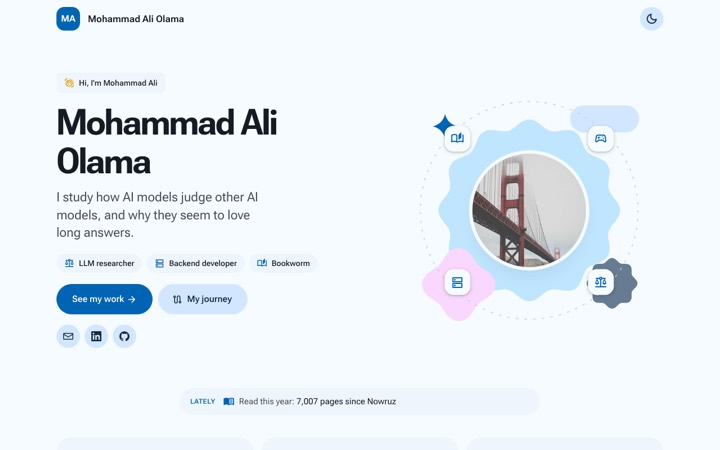
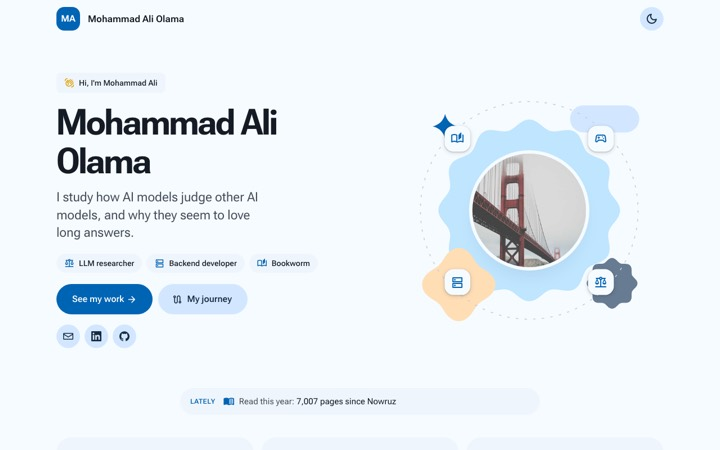
Blue + amber palette: accent hue opposite the main blue; no pink/purple tones

Changed region(s): [[0.5806, 0.5289, 0.7028, 0.7156]]

diff --git a/assets/css/base.css b/assets/css/base.css
@@ -29,9 +29,9 @@
   --secondary: oklch(.5 calc(var(--c) * .4) var(--h));
   --secondary-container: oklch(.92 calc(var(--c) * .3) var(--h));
   --on-secondary-container: oklch(.28 calc(var(--c) * .35) var(--h));
-  --tertiary: oklch(.52 calc(var(--c) * .9) calc(var(--h) + 70));
-  --tertiary-container: oklch(.92 calc(var(--c) * .5) calc(var(--h) + 70));
-  --on-tertiary-container: oklch(.3 calc(var(--c) * .7) calc(var(--h) + 70));
+  --tertiary: oklch(.52 calc(var(--c) * .9) calc(var(--h) + var(--t-off, 70)));
+  --tertiary-container: oklch(.92 calc(var(--c) * .5) calc(var(--h) + var(--t-off, 70)));
+  --on-tertiary-container: oklch(.3 calc(var(--c) * .7) calc(var(--h) + var(--t-off, 70)));
   --surface: oklch(.985 calc(var(--c) * .07) var(--h));
   --surface-container-lowest: oklch(1 0 0);
   --surface-container-low: oklch(.968 calc(var(--c) * .09) var(--h));
@@ -55,9 +55,9 @@
   --secondary: oklch(.8 calc(var(--c) * .35) var(--h));
   --secondary-container: oklch(.36 calc(var(--c) * .3) var(--h));
   --on-secondary-container: oklch(.92 calc(var(--c) * .25) var(--h));
-  --tertiary: oklch(.82 calc(var(--c) * .7) calc(var(--h) + 70));
-  --tertiary-container: oklch(.38 calc(var(--c) * .6) calc(var(--h) + 70));
-  --on-tertiary-container: oklch(.92 calc(var(--c) * .4) calc(var(--h) + 70));
+  --tertiary: oklch(.82 calc(var(--c) * .7) calc(var(--h) + var(--t-off, 70)));
+  --tertiary-container: oklch(.38 calc(var(--c) * .6) calc(var(--h) + var(--t-off, 70)));
+  --on-tertiary-container: oklch(.92 calc(var(--c) * .4) calc(var(--h) + var(--t-off, 70)));
   --surface: oklch(.17 calc(var(--c) * .12) var(--h));
   --surface-container-lowest: oklch(.14 calc(var(--c) * .1) var(--h));
   --surface-container-low: oklch(.2 calc(var(--c) * .13) var(--h));
@@ -428,7 +428,7 @@ a.stamp, a.game { color: var(--on-surface); }
 .reading .headline-m { font-weight: 600; }
 .fav { margin-inline-start: auto; border-radius: 99px; }
 .pages-stack { position: relative; width: 64px; height: 78px; flex: none; }
-.pages-stack i { position: absolute; inset: 0; border-radius: 4px 8px 8px 4px; background: oklch(.6 .12 calc(var(--h) + var(--i) * 40)); box-shadow: 0 2px 6px rgb(0 0 0 / .2); transform: rotate(calc((var(--i) - 3) * 4deg)) translateY(calc(var(--i) * -2px)); transform-origin: bottom center; animation: fan .9s var(--ease-spring) both; animation-delay: calc(var(--i) * 60ms); }
+.pages-stack i { position: absolute; inset: 0; border-radius: 4px 8px 8px 4px; background: oklch(.6 .12 calc(var(--h) + (var(--i) - 3) * 10)); box-shadow: 0 2px 6px rgb(0 0 0 / .2); transform: rotate(calc((var(--i) - 3) * 4deg)) translateY(calc(var(--i) * -2px)); transform-origin: bottom center; animation: fan .9s var(--ease-spring) both; animation-delay: calc(var(--i) * 60ms); }
 @keyframes fan { from { transform: none; } }
 
 /* ---------- Quotes ---------- */

diff --git a/designs/final/style.css b/designs/final/style.css
@@ -1,5 +1,5 @@
 /* Final — Workspace look, floating toolbar, minimal graphical home, Path road for Journey */
-:root { --r-card: 24px; --card-bg: var(--surface-container-low); --display-weight: 560; --display-tracking: -.035em; }
+:root { --t-off: 180; --r-card: 24px; --card-bg: var(--surface-container-low); --display-weight: 560; --display-tracking: -.035em; }
 .grow { flex: 1; }
 
 /* ---------- Top bar ---------- */
@@ -174,13 +174,13 @@ a.paper:hover .code-link .ms { transform: translateX(4px); }
 .repos { display: grid; grid-template-columns: repeat(auto-fill, minmax(260px, 1fr)); gap: 14px; }
 .repo { display: flex; flex-direction: column; border-radius: 24px; overflow: hidden; background: var(--surface-container-low); transition: transform .3s var(--ease), box-shadow .3s var(--ease); }
 .repo:hover { transform: translateY(-4px); box-shadow: var(--elev-2); }
-.repo-art { position: relative; height: 96px; display: grid; place-items: center; overflow: hidden; color: #fff; background: linear-gradient(135deg, oklch(.5 .13 calc(var(--h) + var(--o))), oklch(.68 .12 calc(var(--h) + var(--o) + 40))); }
+.repo-art { position: relative; height: 96px; display: grid; place-items: center; overflow: hidden; color: #fff; background: linear-gradient(135deg, oklch(.5 .13 calc(var(--h) + var(--o))), oklch(.68 .12 calc(var(--h) + var(--o) + 15))); }
 .repo-art::before, .repo-art::after { content: ""; position: absolute; border-radius: 50%; background: rgb(255 255 255 / .12); }
 .repo-art::before { width: 140px; height: 140px; top: -60px; inset-inline-end: -40px; }
 .repo-art::after { width: 70px; height: 70px; bottom: -30px; inset-inline-start: 20px; }
 .repo-art .ms { position: relative; z-index: 1; font-size: 46px; transition: transform .5s var(--ease-spring); font-variation-settings: "FILL" 1, "wght" 400, "GRAD" 0, "opsz" 48; }
 .repo:hover .repo-art .ms { transform: scale(1.15) rotate(-8deg); }
-.repo.k-fun .repo-art { background: repeating-linear-gradient(45deg, rgb(255 255 255 / .08) 0 10px, transparent 10px 20px), linear-gradient(135deg, oklch(.55 .17 calc(var(--o) + 20)), oklch(.72 .16 calc(var(--o) + 70))); }
+.repo.k-fun .repo-art { background: repeating-linear-gradient(45deg, rgb(255 255 255 / .08) 0 10px, transparent 10px 20px), linear-gradient(135deg, oklch(.58 .14 calc(var(--h) + var(--o))), oklch(.74 .13 calc(var(--h) + var(--o) + 25))); }
 .repo-body { display: flex; flex-direction: column; gap: 6px; padding: 16px 18px 18px; flex: 1; }
 .repo-body .body-s { flex: 1; }
 .repo-foot { display: flex; align-items: center; justify-content: space-between; gap: 8px; margin-top: 8px; }

diff --git a/index.html b/index.html
@@ -285,7 +285,7 @@
               ${[[40, 70], [34, 82], [46, 74], [30, 88], [38, 78]].map(([a, b], i) => `<rect class="a-soft grow" style="--d:${i * 0.1}s" x="${36 + i * 48}" y="${130 - a}" width="16" height="${a}" rx="4"/><rect class="a-acc grow" style="--d:${i * 0.1 + 0.05}s" x="${54 + i * 48}" y="${130 - b}" width="16" height="${b}" rx="4"/>`).join('')}
               <text class="a-txt big" x="262" y="34">فا</text></svg>`,
           ];
-          const tones = [0, 60, 140, 220, 300];
+          const tones = [0, -40, 180, -70, 160]; // blues, teal and amber only
           const projects = c.projects.map((p, i) => `
             <a class="repo k-${p.kind || 'project'}" data-kind="${p.kind || 'project'}" href="${p.url}" target="_blank" rel="noopener" data-reveal style="--i:${i % 6};--o:${tones[i % 5]}">
               <span class="repo-art"><span class="ms">${p.icon}</span></span>
